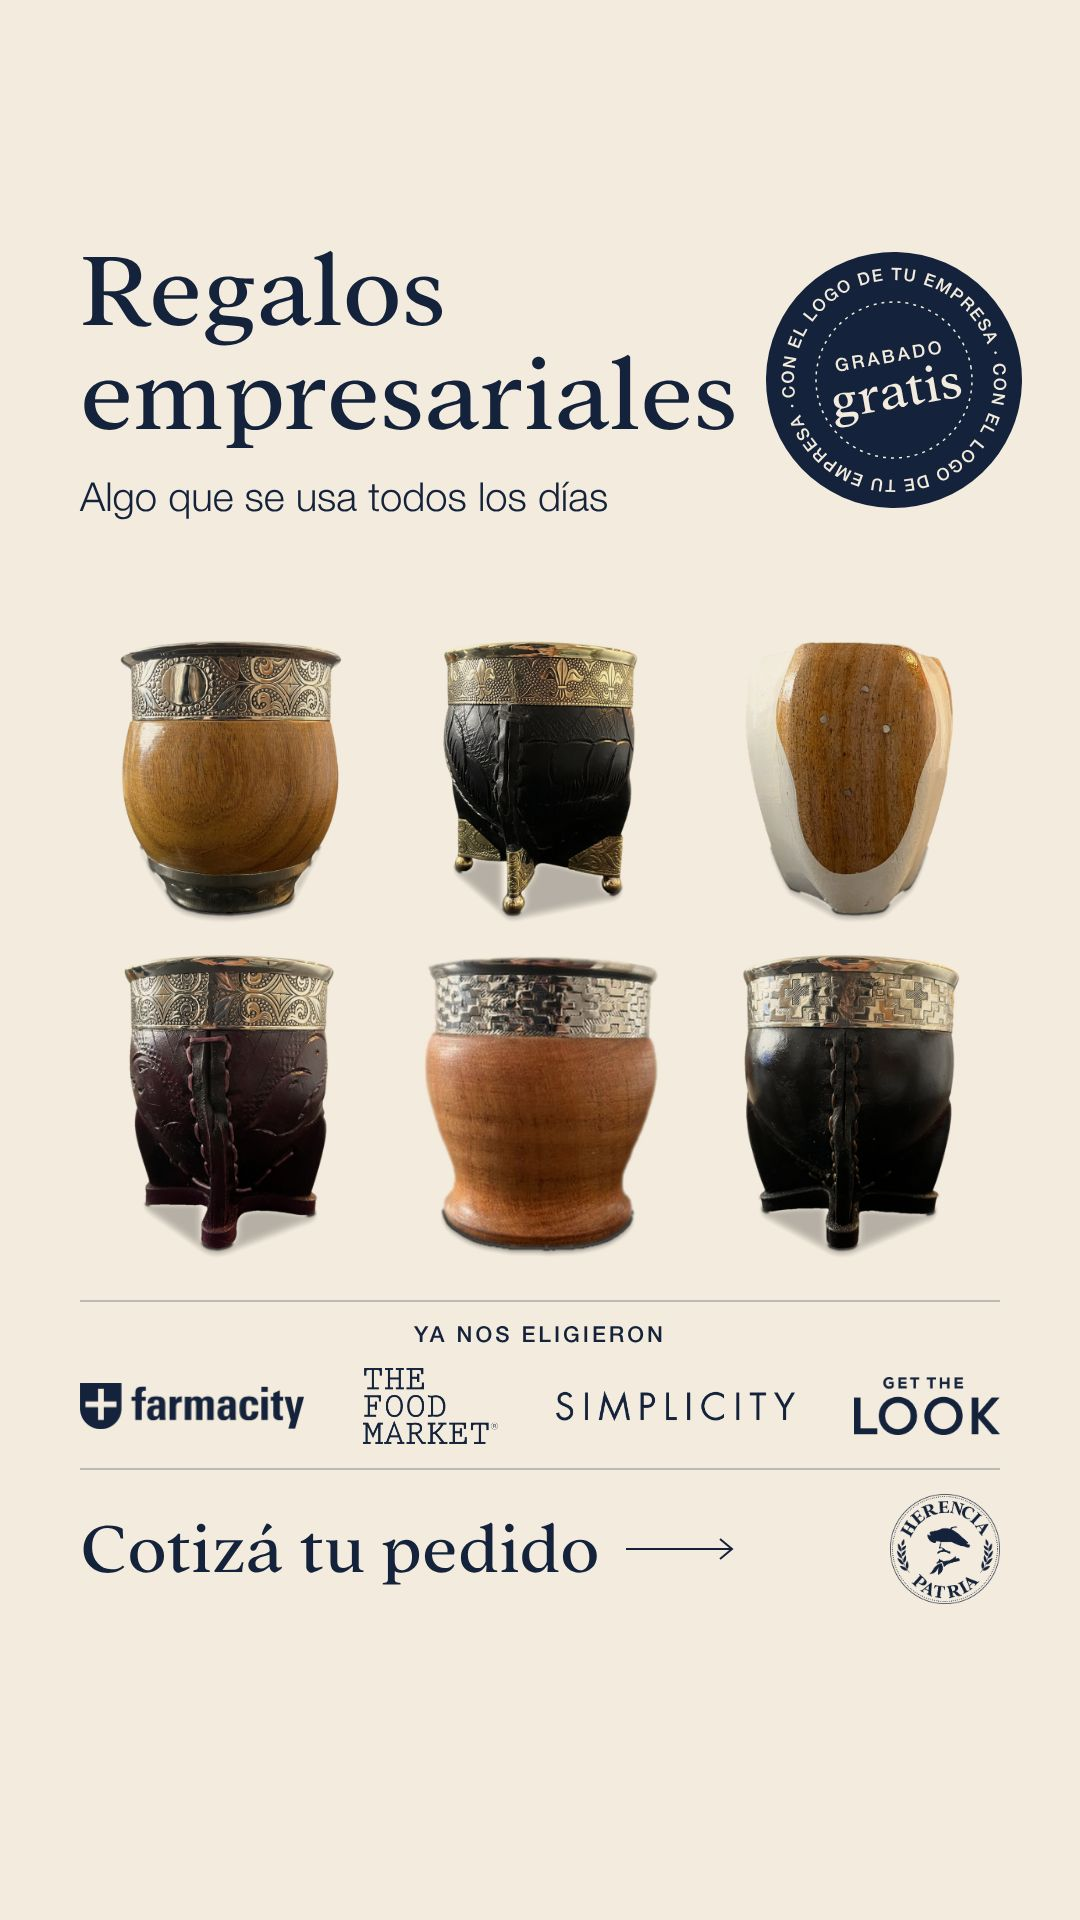
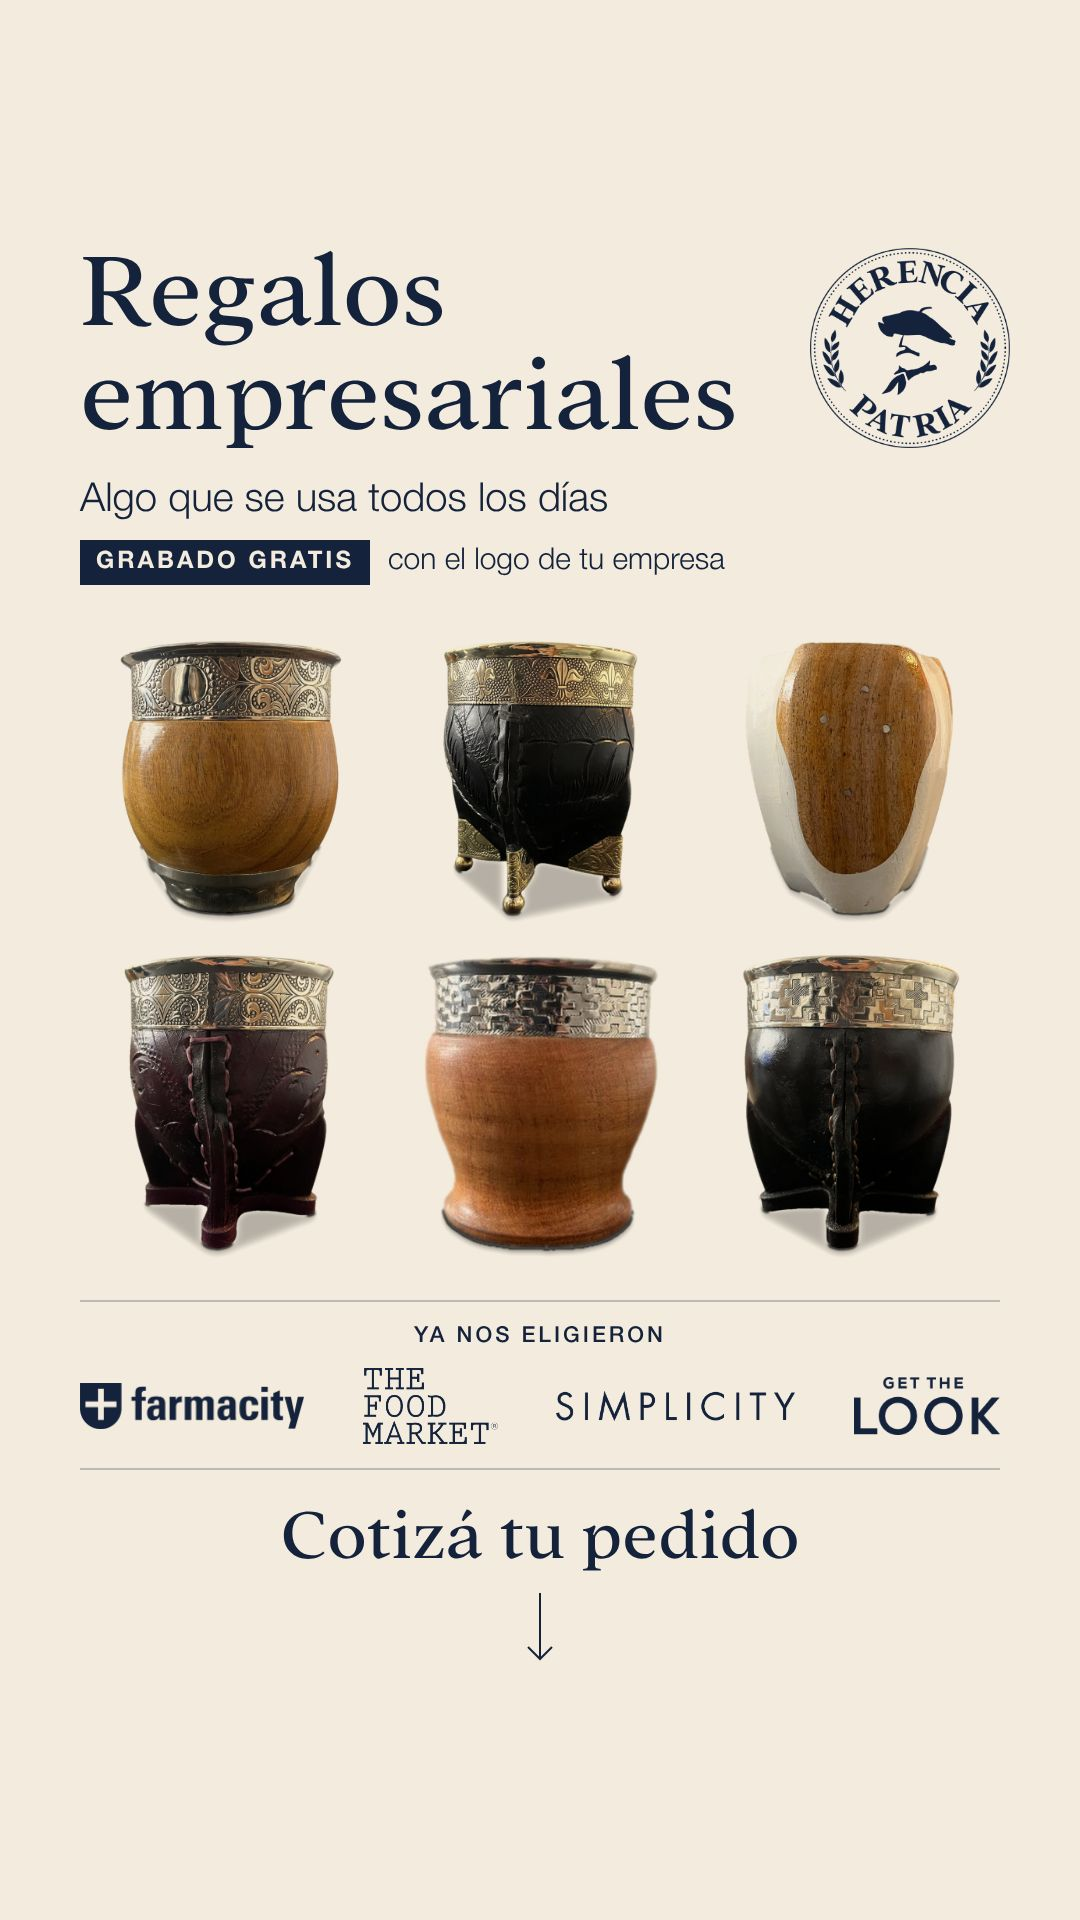
Historia empresarial: sello de la marca junto al título, grabado gratis como etiqueta
El llamado va centrado con una flecha hacia abajo.

Claude-Session: https://claude.ai/code/session_012H3xPSmbqKoMmc2aK7okNH

diff --git a/src/HerenciaPatria/HistoriaEmpresas.tsx b/src/HerenciaPatria/HistoriaEmpresas.tsx
@@ -5,11 +5,11 @@ import { colors, fonts } from "./brand";
 // de año, pensada como anuncio. Fondo crema y todo en azul (sólo los dos
 // colores de la marca, más el de los mates), con las letras de la marca:
 // Addington para el título y el llamado, Helvetica Neue para el resto.
-// Arriba el título grande a la izquierda y, a su lado, el beneficio (el
-// grabado gratis) como un sello tipo lacre; al medio los mates reales,
-// grandes (fotos de producto sobre blanco, que con "multiply" se funden con
-// el crema); abajo, entre filetes finos, quiénes ya los eligieron, y el
-// llamado con una flecha y el sello de la marca. Lo que hay que leer va entre 230 y 1600: Instagram tapa
+// Arriba el título grande a la izquierda con el sello de la marca a su lado,
+// la bajada y el beneficio (el grabado gratis) en una etiqueta; al medio los
+// mates reales, grandes (fotos de producto sobre blanco, que con "multiply"
+// se funden con el crema); abajo, entre filetes finos, quiénes ya los
+// eligieron, y el llamado centrado con una flecha hacia abajo. Lo que hay que leer va entre 230 y 1600: Instagram tapa
 // arriba el perfil y abajo la respuesta o el botón del anuncio.
 
 const margen = 80;
@@ -18,9 +18,8 @@ export const HistoriaEmpresas: React.FC<{
   readonly mates: string[][];
   readonly titulo: string[];
   readonly bajada: string;
-  // El sello del beneficio: la leyenda del anillo, grande al centro y arriba
-  // de lo grande.
-  readonly etiqueta: [string, string, string];
+  // El beneficio: la etiqueta y su detalle.
+  readonly etiqueta: [string, string];
   // Prueba social: clientes que ya regalaron Herencia, con su logo (el
   // archivo oficial, con permiso del cliente) y el alto al que va cada uno,
   // para que pesen parecido.
@@ -76,71 +75,37 @@ export const HistoriaEmpresas: React.FC<{
       >
         {bajada}
       </div>
-      {/* El beneficio: un sello azul al lado del título, como un lacre, con
-          la leyenda en el anillo y "gratis" grande al centro. Lejos de los
-          mates, para que no los tape. */}
-      <svg
-        viewBox="0 0 260 260"
+      {/* El sello de la marca, grande, al lado del título. */}
+      <Img
+        src={staticFile("logos/herencia-patria-sello-azul.png")}
+        style={{ position: "absolute", top: 248, right: 70, width: 200 }}
+      />
+      {/* El beneficio, bajo la bajada: una etiqueta azul y su detalle. */}
+      <div
         style={{
           position: "absolute",
-          top: 250,
-          right: 56,
-          width: 260,
-          height: 260,
-          transform: "rotate(-10deg)",
+          top: 540,
+          left: margen,
+          display: "flex",
+          alignItems: "center",
+          gap: 18,
+          fontFamily: fonts.sans,
         }}
       >
-        <defs>
-          <path
-            id="anillo"
-            d="M 130,130 m -100,0 a 100,100 0 1,1 200,0 a 100,100 0 1,1 -200,0"
-          />
-        </defs>
-        <circle cx={130} cy={130} r={128} fill={colors.azul} />
-        <circle
-          cx={130}
-          cy={130}
-          r={78}
-          fill="none"
-          stroke={colors.crema}
-          strokeWidth={1.5}
-          strokeDasharray="3 5"
-        />
-        <text
-          fill={colors.crema}
-          fontFamily={fonts.sans}
-          fontWeight={500}
-          fontSize={17}
-          style={{ textTransform: "uppercase" }}
+        <div
+          style={{
+            ...rotulo,
+            fontWeight: 700,
+            fontSize: 24,
+            background: colors.azul,
+            color: colors.crema,
+            padding: "9px 16px 7px",
+          }}
         >
-          <textPath href="#anillo" textLength={622} lengthAdjust="spacing">
-            {etiqueta[0]}
-          </textPath>
-        </text>
-        <text
-          x={130}
-          y={112}
-          textAnchor="middle"
-          fill={colors.crema}
-          fontFamily={fonts.sans}
-          fontWeight={500}
-          fontSize={18}
-          letterSpacing={3}
-          style={{ textTransform: "uppercase" }}
-        >
-          {etiqueta[2]}
-        </text>
-        <text
-          x={130}
-          y={158}
-          textAnchor="middle"
-          fill={colors.crema}
-          fontFamily={fonts.serif}
-          fontSize={54}
-        >
-          {etiqueta[1]}
-        </text>
-      </svg>
+          {etiqueta[0]}
+        </div>
+        <div style={{ fontWeight: 300, fontSize: 30 }}>{etiqueta[1]}</div>
+      </div>
       {/* Los mates, grandes: dos filas, la de atrás un poco más chica. */}
       {mates.map((fila, i) => (
         <div
@@ -209,32 +174,33 @@ export const HistoriaEmpresas: React.FC<{
         ))}
       </div>
       <div style={{ ...filete, top: 1468 }} />
-      {/* El llamado: texto con una flecha fina, no botón (el anuncio trae
-          el suyo), y el sello de la marca al lado. */}
+      {/* El llamado, centrado, con una flecha hacia abajo (hacia la
+          respuesta o el botón del anuncio). Texto, no botón. */}
       <div
         style={{
           position: "absolute",
-          top: 1494,
-          left: margen,
-          right: margen,
+          top: 1492,
+          left: 0,
+          right: 0,
           display: "flex",
+          flexDirection: "column",
           alignItems: "center",
-          gap: 26,
         }}
       >
         <div style={{ fontSize: 72 }}>{accion}</div>
-        <svg width={110} height={24} viewBox="0 0 110 24">
+        <svg
+          width={28}
+          height={70}
+          viewBox="0 0 28 70"
+          style={{ marginTop: 14 }}
+        >
           <path
-            d="M 0 12 H 106 M 94 2 L 106 12 L 94 22"
+            d="M 14 0 V 66 M 2 54 L 14 66 L 26 54"
             fill="none"
             stroke={colors.azul}
             strokeWidth={2}
           />
         </svg>
-        <Img
-          src={staticFile("logos/herencia-patria-sello-azul.png")}
-          style={{ marginLeft: "auto", width: 110 }}
-        />
       </div>
     </AbsoluteFill>
   );

diff --git a/src/Root.tsx b/src/Root.tsx
@@ -410,11 +410,7 @@ export const RemotionRoot: React.FC = () => {
           ],
           titulo: ["Regalos", "empresariales"],
           bajada: "Algo que se usa todos los días",
-          etiqueta: [
-            "Con el logo de tu empresa · con el logo de tu empresa ·",
-            "gratis",
-            "Grabado",
-          ],
+          etiqueta: ["Grabado gratis", "con el logo de tu empresa"],
           confianza: "Ya nos eligieron",
           logos: [
             ["clientes/farmacity.png", 46],
